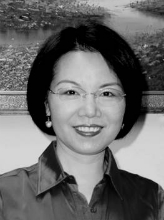
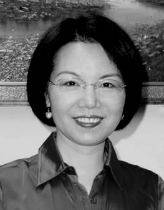
add photos

diff --git a/people.html b/people.html
@@ -29,7 +29,7 @@ title: People
  <div class="people">
   <table cellspacing="1" cellpadding="10" border="0" > 
    <tr valign="bottom" class="photo">
-    <td>  <p> <img style="vertical-align:bottom;width:164px;height:220px;" alt="ping" title="" src="{{site.baseurl}}/images/portrait/ping2.jpg"> </p>
+    <td>  <p> <img style="vertical-align:bottom;width:164px;height:210px;" alt="ping" title="" src="{{site.baseurl}}/images/portrait/ping2.jpg"> </p>
           <p> <i class="fa fa-user"></i>&nbsp;&nbsp;&nbsp;Rui-Ping Xiao<br>
               <i class="fa fa-credit-card"></i> &nbsp;Professor<br>
               <i class="fa fa-envelope"></i>&nbsp;&nbsp;  xiaor(at)pku.edu.cn <br>
@@ -310,12 +310,14 @@ title: People
               <i class="fa fa-credit-card"></i> &nbsp;Graduated at 2012<br>
           </p>
     </td> 
+    <td> &nbsp; &nbsp; &nbsp;</td>   
     <td>  <p> <img style="vertical-align:bottom;width:164px;height:200px;" alt="ping" title="" src="{{site.baseurl}}/images/portrait/huangying.jpg"> </p>
           <p> <i class="fa fa-user"></i>&nbsp;&nbsp;&nbsp;Ying Huang<br>
           	  <i class="fa fa-credit-card"></i> &nbsp;Master<br>
               <i class="fa fa-credit-card"></i> &nbsp;Graduated at 2014<br>
           </p>
-    </td>       
+    </td>  
+      <td>&nbsp;</td>     
     <td>  <p> <img style="vertical-align:bottom;width:164px;height:200px;" alt="ping" title="" src="{{site.baseurl}}/images/portrait/zhangchi.jpg"> </p>
           <p> <i class="fa fa-user"></i>&nbsp;&nbsp;&nbsp;Chi Zhang<br>
              	<i class="fa fa-credit-card"></i> &nbsp;Bachelor<br>

diff --git a/about.html b/about.html
@@ -12,7 +12,7 @@ title: About
 <![endif]-->
 
 <div class="container">  
-<div align="center"><img src="{{site.baseurl}}/images/portrait/ping2.jpg" alt="face" width="164" height="220"> </div>
+<div align="center"><img src="{{site.baseurl}}/images/portrait/ping2.jpg" alt="face" width="164" height="210"> </div>
 
 
 <p></p><center> <br>
